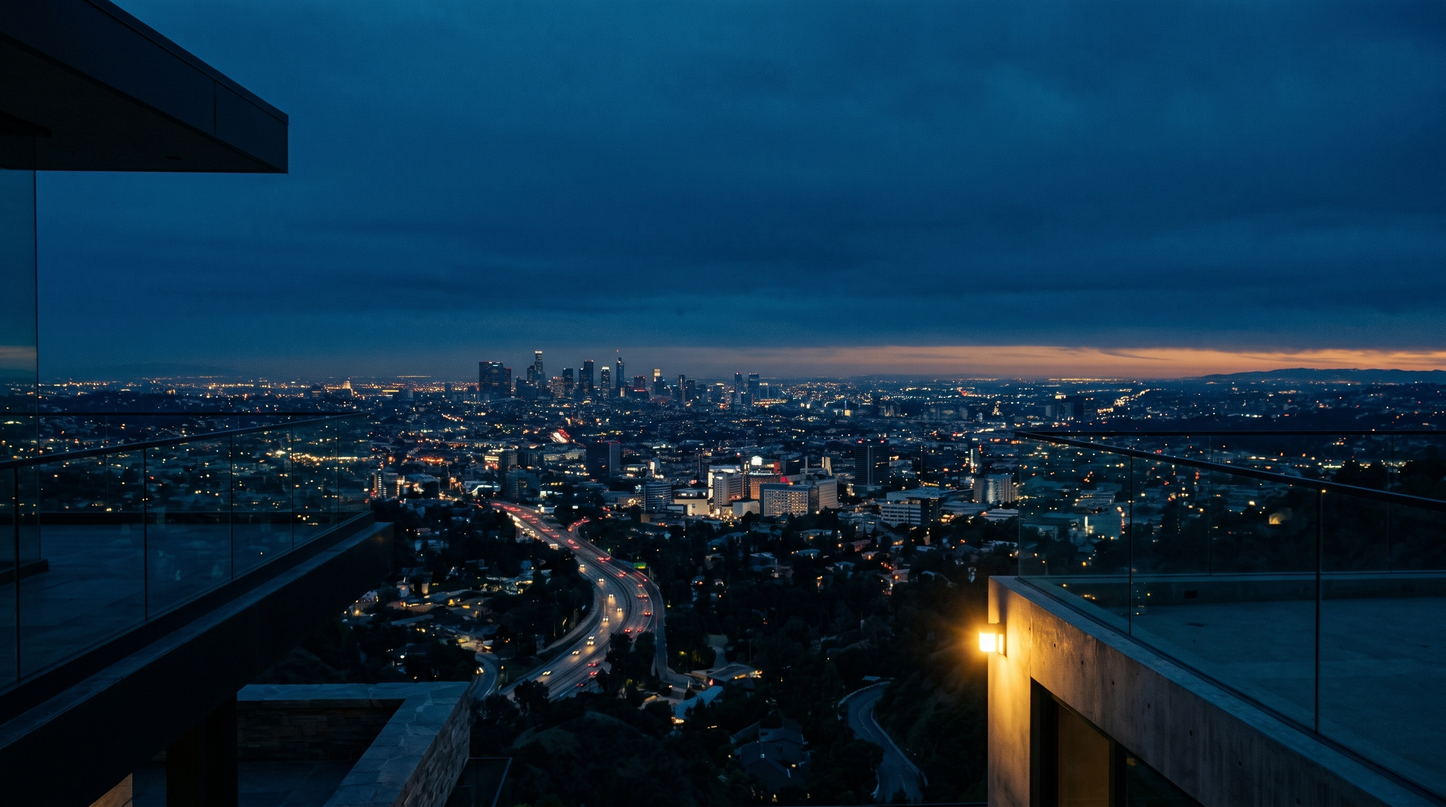
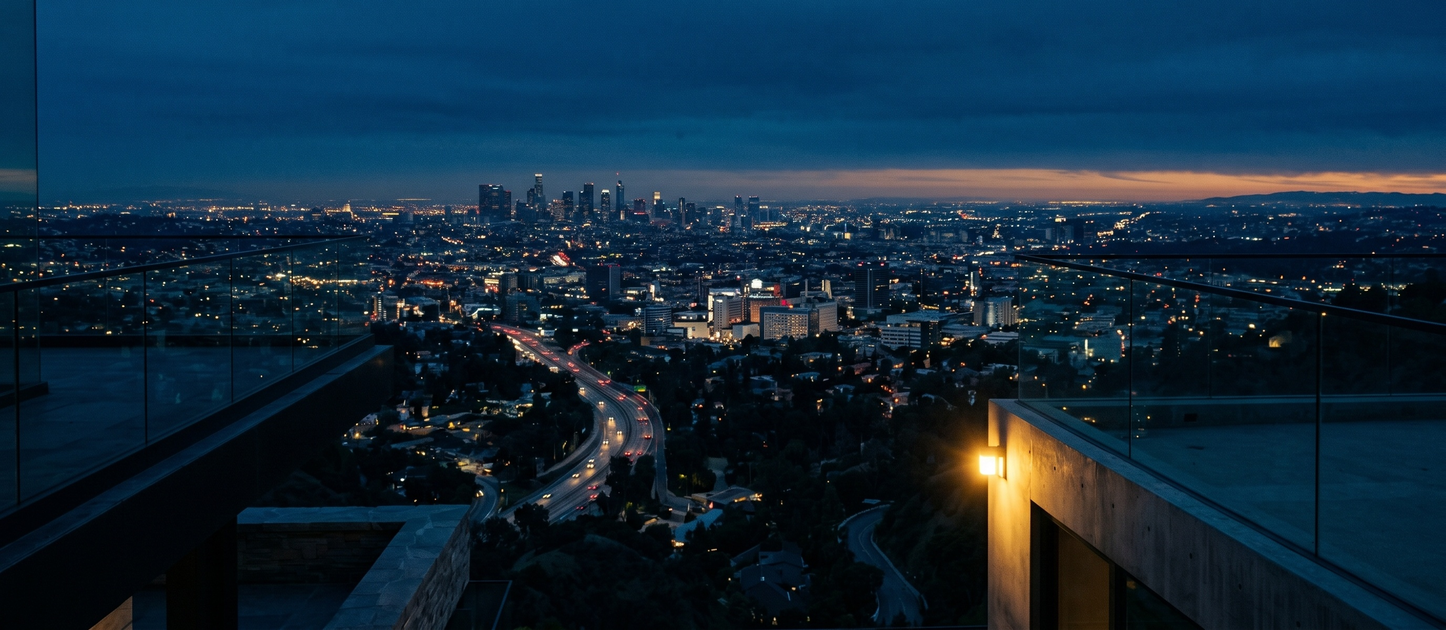
style: crop hero image top and shift positioning to center top for seamless blue sky bleed

diff --git a/blue-hour.html b/blue-hour.html
@@ -168,7 +168,7 @@
       background: 
         radial-gradient(circle at bottom center, rgba(201, 162, 58, 0.08) 0%, rgba(15, 31, 61, 0) 50%),
         linear-gradient(to bottom, rgba(15, 31, 61, 0.5) 0%, rgba(15, 31, 61, 0.8) 100%),
-        url('blue-hour-hero.jpeg') no-repeat center/cover;
+        url('blue-hour-hero.jpeg') no-repeat center top/cover;
       animation: kenBurns 8s cubic-bezier(0.25, 0.46, 0.45, 0.94) forwards;
       z-index: 1;
     }

diff --git a/index.html b/index.html
@@ -168,7 +168,7 @@
       background: 
         radial-gradient(circle at bottom center, rgba(201, 162, 58, 0.08) 0%, rgba(15, 31, 61, 0) 50%),
         linear-gradient(to bottom, rgba(15, 31, 61, 0.5) 0%, rgba(15, 31, 61, 0.8) 100%),
-        url('blue-hour-hero.jpeg') no-repeat center/cover;
+        url('blue-hour-hero.jpeg') no-repeat center top/cover;
       animation: kenBurns 8s cubic-bezier(0.25, 0.46, 0.45, 0.94) forwards;
       z-index: 1;
     }
